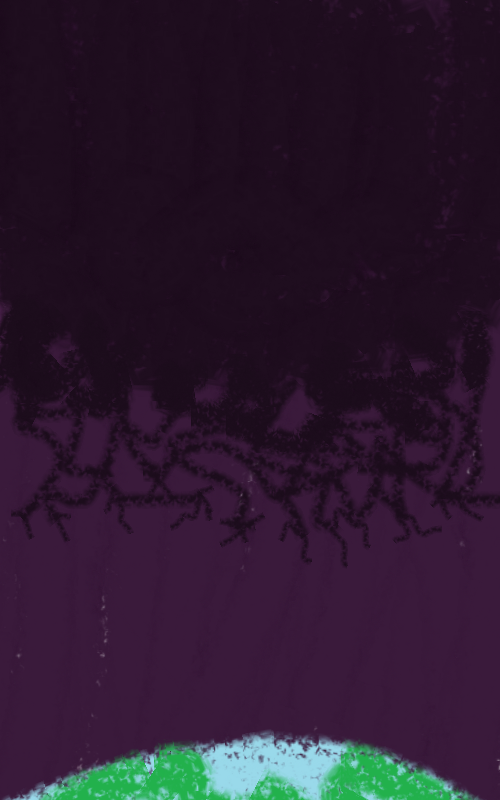
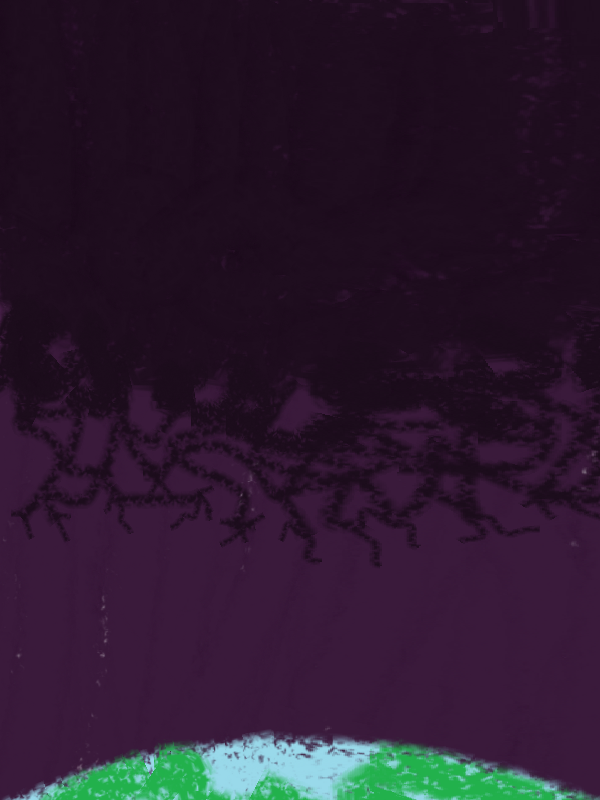
rosquilla, movimiento homer, bullets

diff --git a/core/src/main/java/io/github/dodgedn/Main.java b/core/src/main/java/io/github/dodgedn/Main.java
@@ -41,6 +41,10 @@ public class Main implements ApplicationListener {
     Vector2 touchPos;
     Array<Sprite> bulletSprites;
 
+    float timer;
+    float vidaHomer = 100f;
+    boolean derecha = true;
+
     @Override
     public void create() {
         bgTexture = new Texture("bg2.png");
@@ -57,13 +61,18 @@ public class Main implements ApplicationListener {
         music = Gdx.audio.newMusic(Gdx.files.internal("music.mp3"));
 
         spriteBatch = new SpriteBatch();
-        viewport = new FitViewport(500,800);
+
+        viewport = new FitViewport(600,800);
+        float worldWidth = viewport.getWorldWidth();
+        float worldHeight = viewport.getWorldHeight();
 
         bartSprite = new Sprite(bartTexture);
-        bartSprite.setSize(50,100);
+        bartSprite.setSize(40,90);
+        bartSprite.setPosition(worldWidth/2-bartSprite.getWidth(),0);
 
         homerSprite = new Sprite(homerTexture);
-        homerSprite.setSize(70,120);
+        homerSprite.setSize(60,110);
+        homerSprite.setPosition(worldWidth/2-homerSprite.getWidth(),worldHeight-100-homerSprite.getHeight());
 
         touchPos = new Vector2();
 
@@ -92,10 +101,16 @@ public class Main implements ApplicationListener {
             speed = speed / 2f;
 
         if (Gdx.input.isKeyPressed(Input.Keys.RIGHT))
+        {
+            bartSprite.setFlip(true,false);
             bartSprite.translateX(speed * delta);
+        }
 
         if (Gdx.input.isKeyPressed(Input.Keys.LEFT))
+        {
             bartSprite.translateX(-speed * delta);
+            bartSprite.setFlip(false,false);
+        }
 
         if (Gdx.input.isKeyPressed(Input.Keys.UP))
             bartSprite.translateY(speed*delta);
@@ -105,6 +120,9 @@ public class Main implements ApplicationListener {
     }
 
     private void logic() {
+        float homerSpeed = 200f;
+        float bulletSpeed = -200f;
+
         float worldWidth = viewport.getWorldWidth();
         float worldHeight = viewport.getWorldHeight();
 
@@ -113,6 +131,37 @@ public class Main implements ApplicationListener {
 
         bartSprite.setX(MathUtils.clamp(bartSprite.getX(),0,worldWidth-bartWidth));
         bartSprite.setY(MathUtils.clamp(bartSprite.getY(),0,worldHeight-bartHeight));
+
+        float delta = Gdx.graphics.getDeltaTime();
+
+        // lógica movimiento homer
+
+        if (vidaHomer>0)
+        {
+            if (derecha)
+            {
+                homerSprite.translateX(homerSpeed*delta);
+                if (homerSprite.getX() >= viewport.getWorldWidth() - homerSprite.getWidth())
+                    derecha = false;
+            } else {
+                homerSprite.translateX(-homerSpeed*delta);
+                if (homerSprite.getX() <= 0) {
+                    derecha = true;
+                }
+            }
+        }
+
+        for (Sprite bulletSprite : bulletSprites)
+        {
+            bulletSprite.translateY(bulletSpeed*delta);
+        }
+
+        timer += delta;
+        if (timer>MathUtils.random(0.1f,100f)) {
+            timer = 0;
+            createBullet();
+        }
+
     }
 
     private void draw() {
@@ -126,8 +175,7 @@ public class Main implements ApplicationListener {
 
         spriteBatch.draw(bgTexture, 0, 0, worldWidth, worldHeight); // fondo
         bartSprite.draw(spriteBatch);
-
-        spriteBatch.draw(homerTexture, 200, 600, 70, 120); // enemigo
+        homerSprite.draw(spriteBatch);
 
         for (Sprite bulletSprite : bulletSprites)
         {
@@ -139,15 +187,15 @@ public class Main implements ApplicationListener {
 
     private void createBullet()
     {
-        float bulletWidth = 50;
-        float bulletHeight = 50;
+        float bulletWidth = 25;
+        float bulletHeight = 25;
         float worldWidth = viewport.getWorldWidth();
         float worldHeight = viewport.getWorldHeight();
 
         Sprite bulletSprite = new Sprite(bulletTexture);
         bulletSprite.setSize(bulletWidth,bulletHeight);
-        bulletSprite.setX(0);
-        bulletSprite.setY(worldHeight);
+
+        bulletSprite.setPosition(homerSprite.getX(),homerSprite.getY());
         bulletSprites.add(bulletSprite);
     }
 

diff --git a/lwjgl3/src/main/java/io/github/dodgedn/lwjgl3/Lwjgl3Launcher.java b/lwjgl3/src/main/java/io/github/dodgedn/lwjgl3/Lwjgl3Launcher.java
@@ -20,7 +20,7 @@ public class Lwjgl3Launcher {
         configuration.setTitle("Dodge");
         configuration.useVsync(true);
         configuration.setForegroundFPS(Lwjgl3ApplicationConfiguration.getDisplayMode().refreshRate + 1);
-        configuration.setWindowedMode(500, 800); // tamaño pantalla
+        configuration.setWindowedMode(600, 800); // tamaño pantalla
         configuration.setWindowIcon("libgdx128.png", "libgdx64.png", "libgdx32.png", "libgdx16.png");
 
         return configuration;
